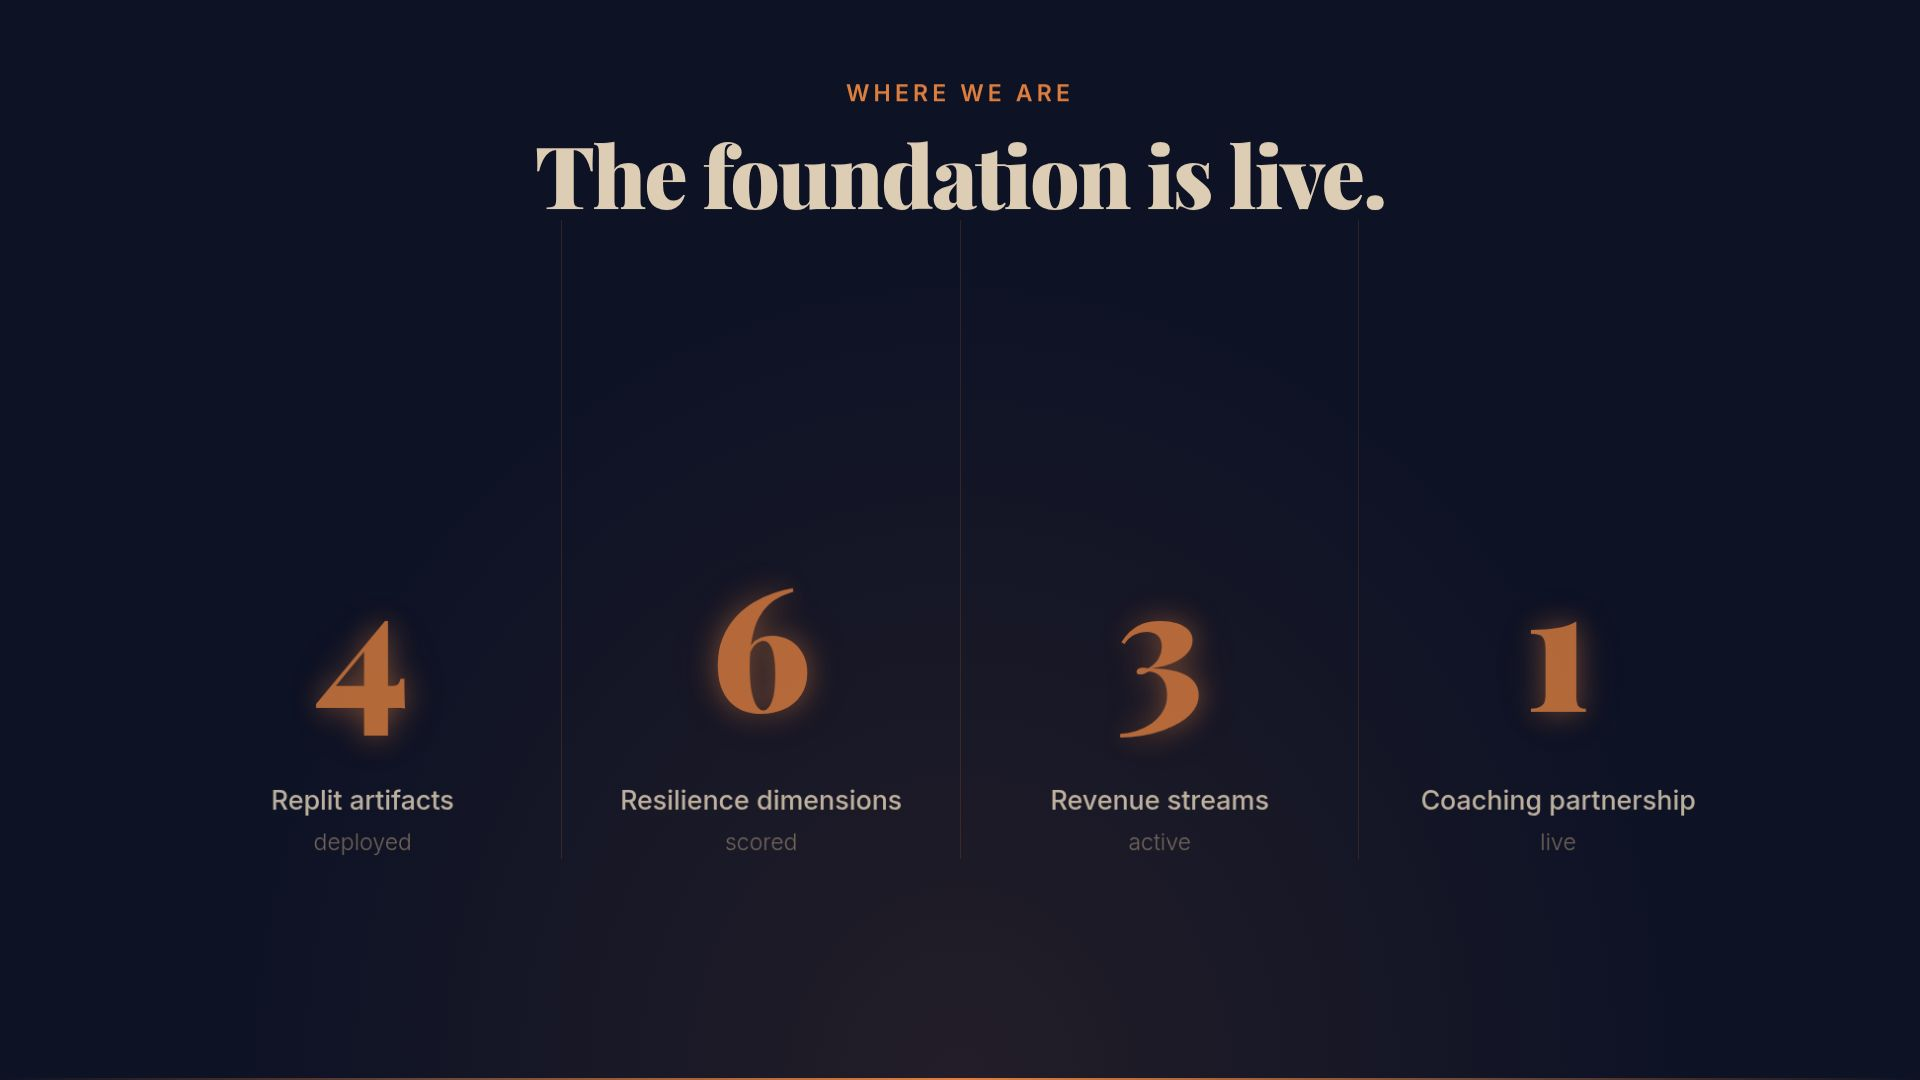
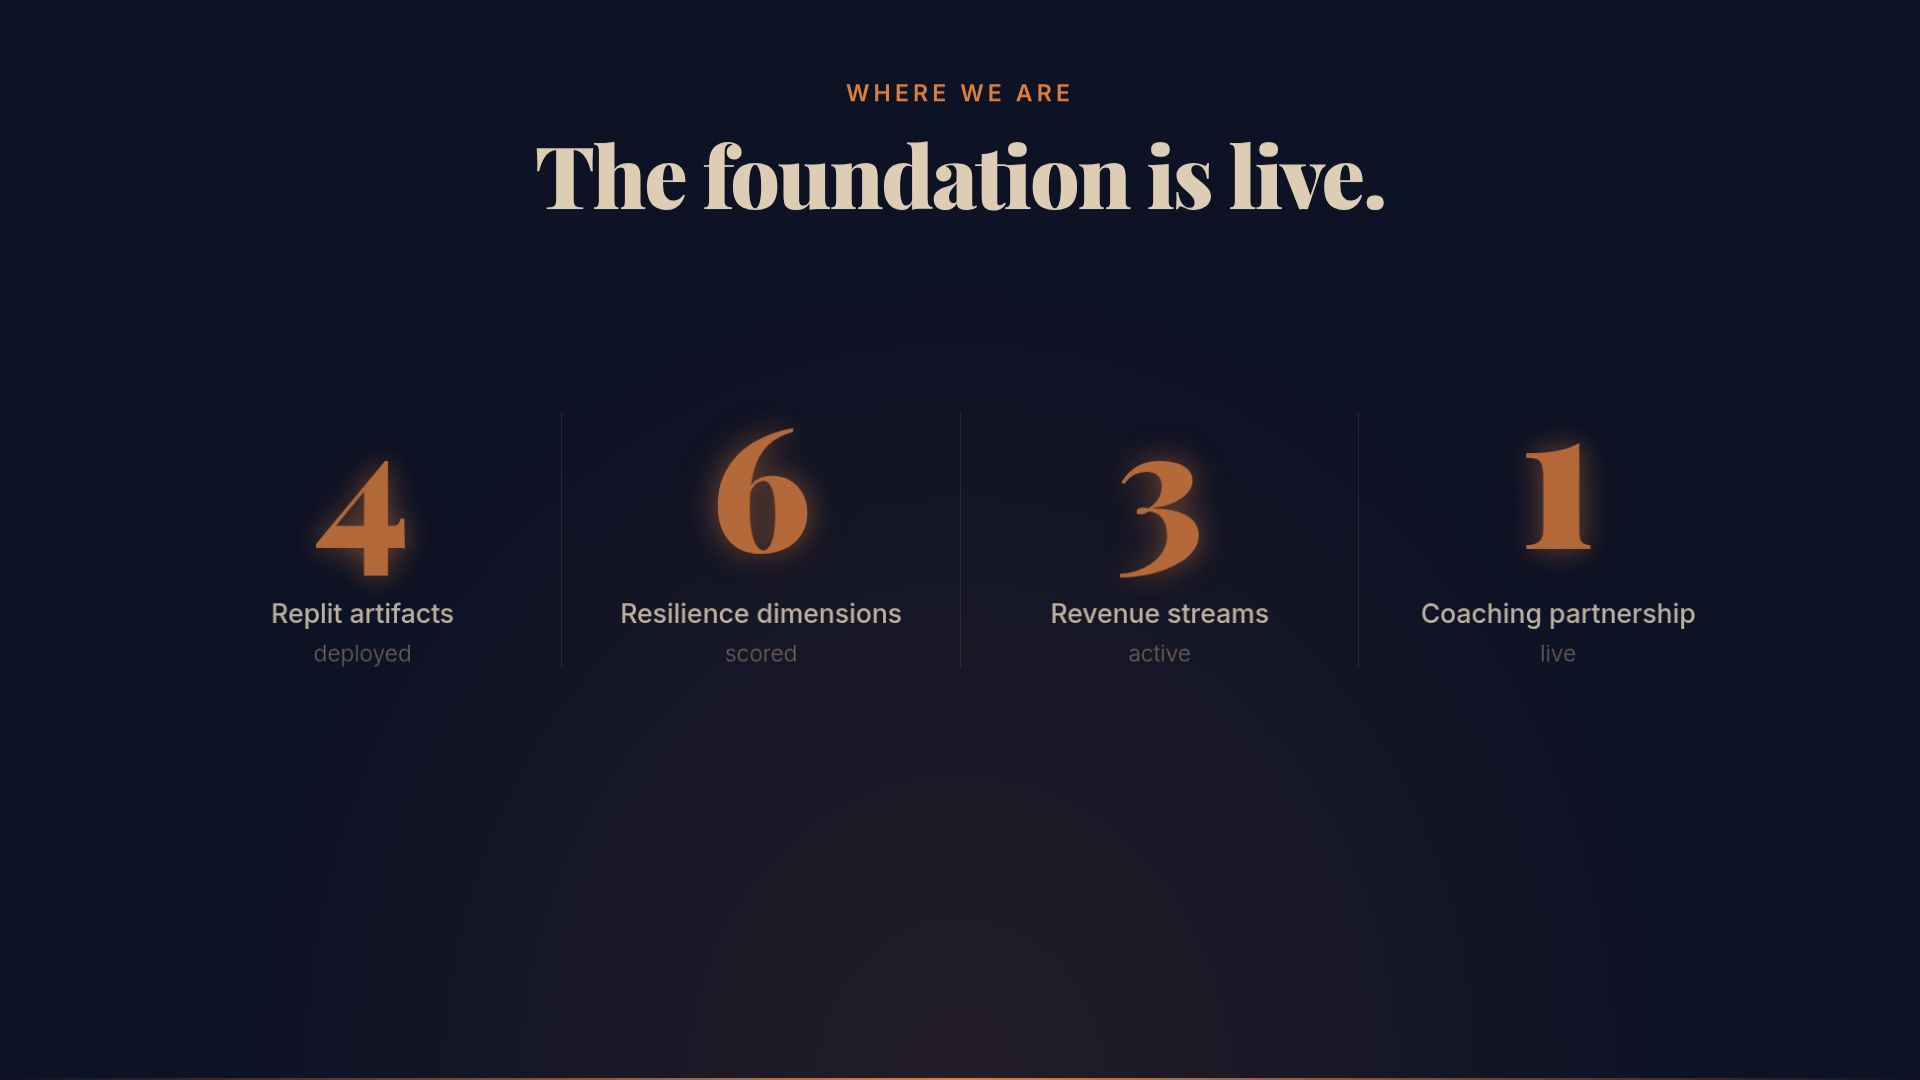
Adjust numbers on slide 7 for better spacing and visual balance
Modify slide 7 to increase padding below numbers, align their baselines, and adjust the font size of '1' for visual consistency.

Replit-Commit-Author: Agent
Replit-Commit-Session-Id: 7ab173fc-c0ae-4549-a6f7-9960ef73686b
Replit-Commit-Checkpoint-Type: full_checkpoint
Replit-Commit-Event-Id: 15fe91be-9899-40ce-a3f2-574d1481d6bc
Replit-Commit-Screenshot-Url: https://storage.googleapis.com/screenshot-production-us-central1/84522d90-6d69-42c9-90f8-a2adebddaff2/7ab173fc-c0ae-4549-a6f7-9960ef73686b/1KYuEMV
Replit-Helium-Checkpoint-Created: true

diff --git a/artifacts/resilium-pitch/src/pages/slides/Slide7Close.tsx b/artifacts/resilium-pitch/src/pages/slides/Slide7Close.tsx
@@ -35,7 +35,7 @@ export default function Slide7Close() {
 
         <div className="flex items-stretch w-full" style={a("0.38s", "scaleIn")}>
           <div className="flex-1 flex flex-col items-center px-[2vw]">
-            <div style={{ height: "17vh", display: "flex", alignItems: "flex-end", paddingBottom: "0.8vh" }}>
+            <div style={{ height: "17vh", display: "flex", alignItems: "flex-end", paddingBottom: "2.5vh" }}>
               <div
                 className="text-[9vw] font-black leading-none"
                 style={{ color: "#E08040", fontFamily: "Playfair Display, serif", textShadow: "0 0 28px rgba(224,128,64,0.55), 0 0 60px rgba(224,128,64,0.2)" }}
@@ -52,7 +52,7 @@ export default function Slide7Close() {
           <div className="w-[1px] self-stretch" style={{ background: "rgba(224,128,64,0.2)" }} />
 
           <div className="flex-1 flex flex-col items-center px-[2vw]">
-            <div style={{ height: "17vh", display: "flex", alignItems: "flex-end", paddingBottom: "0.8vh" }}>
+            <div style={{ height: "17vh", display: "flex", alignItems: "flex-end", paddingBottom: "2.5vh" }}>
               <div
                 className="text-[9vw] font-black leading-none"
                 style={{ color: "#E08040", fontFamily: "Playfair Display, serif", textShadow: "0 0 28px rgba(224,128,64,0.55), 0 0 60px rgba(224,128,64,0.2)" }}
@@ -69,7 +69,7 @@ export default function Slide7Close() {
           <div className="w-[1px] self-stretch" style={{ background: "rgba(224,128,64,0.2)" }} />
 
           <div className="flex-1 flex flex-col items-center px-[2vw]">
-            <div style={{ height: "17vh", display: "flex", alignItems: "flex-end", paddingBottom: "0.8vh" }}>
+            <div style={{ height: "17vh", display: "flex", alignItems: "flex-end", paddingBottom: "2.5vh" }}>
               <div
                 className="text-[9vw] font-black leading-none"
                 style={{ color: "#E08040", fontFamily: "Playfair Display, serif", textShadow: "0 0 28px rgba(224,128,64,0.55), 0 0 60px rgba(224,128,64,0.2)" }}
@@ -86,10 +86,10 @@ export default function Slide7Close() {
           <div className="w-[1px] self-stretch" style={{ background: "rgba(224,128,64,0.2)" }} />
 
           <div className="flex-1 flex flex-col items-center px-[2vw]">
-            <div style={{ height: "17vh", display: "flex", alignItems: "flex-end", paddingBottom: "0.8vh" }}>
+            <div style={{ height: "17vh", display: "flex", alignItems: "flex-end", paddingBottom: "2.5vh" }}>
               <div
-                className="text-[9vw] font-black leading-none"
-                style={{ color: "#E08040", fontFamily: "Playfair Display, serif", textShadow: "0 0 28px rgba(224,128,64,0.55), 0 0 60px rgba(224,128,64,0.2)" }}
+                className="font-black leading-none"
+                style={{ fontSize: "10.5vw", color: "#E08040", fontFamily: "Playfair Display, serif", textShadow: "0 0 28px rgba(224,128,64,0.55), 0 0 60px rgba(224,128,64,0.2)" }}
               >
                 1
               </div>